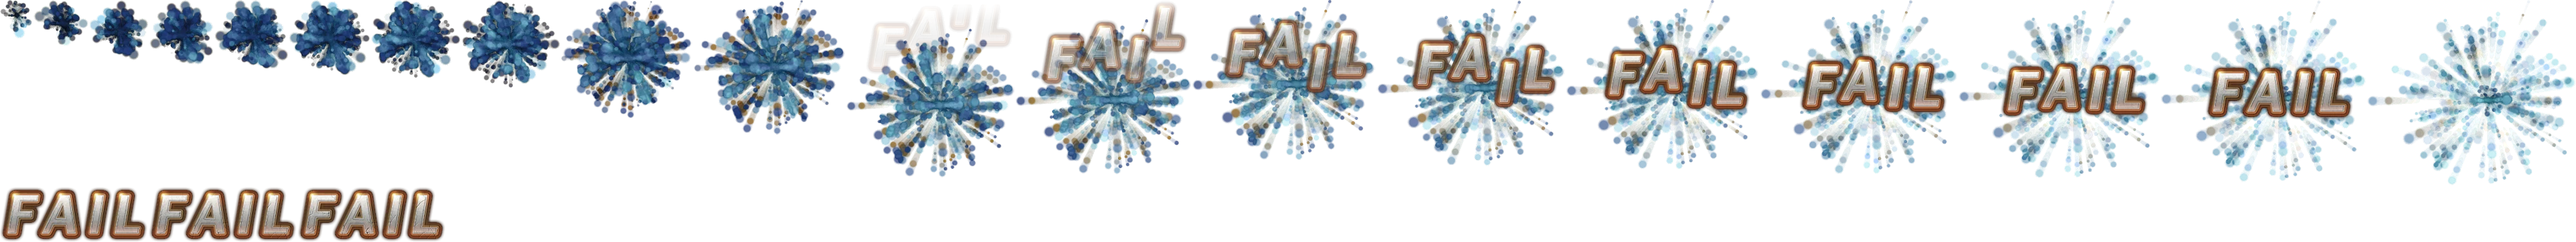
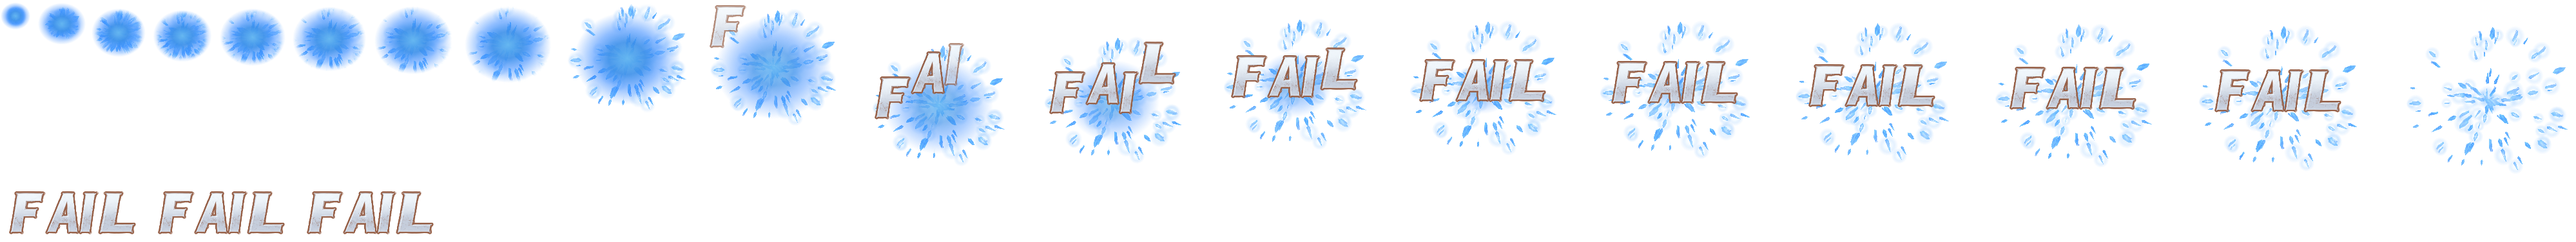
feat(inkri): 成功・失敗の演出を描き起こしの素材に差し替える
ゲーム素材のシートを、画像生成 AI で描いた原画(結晶片・火花・文字)から作ったシートに置き換えた。
コマの矩形・タイムラインは元の JSON のまま使う(閃光→飛び散り→文字の入りのタイミングは元と同じ)。
取込スクリプトは以後シートを書き出さず、矩形の JSON だけを書く(再実行で元素材に戻らないように)。

Claude-Session: https://claude.ai/code/session_01MMDZQkK5fpHQAnN1Fs9rCg

diff --git a/tools/gamedata/import_inkri_ui.py b/tools/gamedata/import_inkri_ui.py
@@ -14,7 +14,8 @@ r"""インクリシミュレータの画面素材(UI 部品・結果演出・効
 
 出力: apps/desktop/src/assets/inkri/
   ui/<name>.png     静的な部品(状態違いは _0,_1,.. の連番)
-  fx/<name>.webp    演出のコマを横に並べたシート
+  fx/<name>.webp    演出のコマを横に並べたシート。2026-09-24 に描き起こしの素材へ差し替えた(コマの矩形は
+                    同じ)ので、このスクリプトは書き出さない。元のシートは git 履歴にある
   fx/<name>.json    {"frames":[{x,y,w,h,ox,oy}], "timeline":[{track,frame,start,hold,dx,dy}],
                      "fades":[{track,start,ticks}]}
                     start/hold/ticks は tick 単位。描画左上 = 基準点 + (ox,oy) + (dx,dy)
@@ -158,7 +159,7 @@ def export_fx(tex: Textures, anim_dump, assets: Path) -> None:
         index = {k: i for i, k in enumerate(unique)}
         timeline = [{"track": s["track"], "frame": index[(s["tex"], s["frame"])], "start": s["start"], "hold": s["hold"],
                      "dx": s["dx"], "dy": s["dy"]} for s in sprs]
-        sheet.save(out / f"{name}.webp", lossless=False, quality=88, method=6)
+        # シート(fx/<name>.webp)は描き起こしの素材に差し替え済み。矩形だけ JSON に書く
         (out / f"{name}.json").write_text(
             json.dumps({"frames": frames, "timeline": timeline, "fades": fades}, ensure_ascii=False, indent=1),
             encoding="utf-8")
